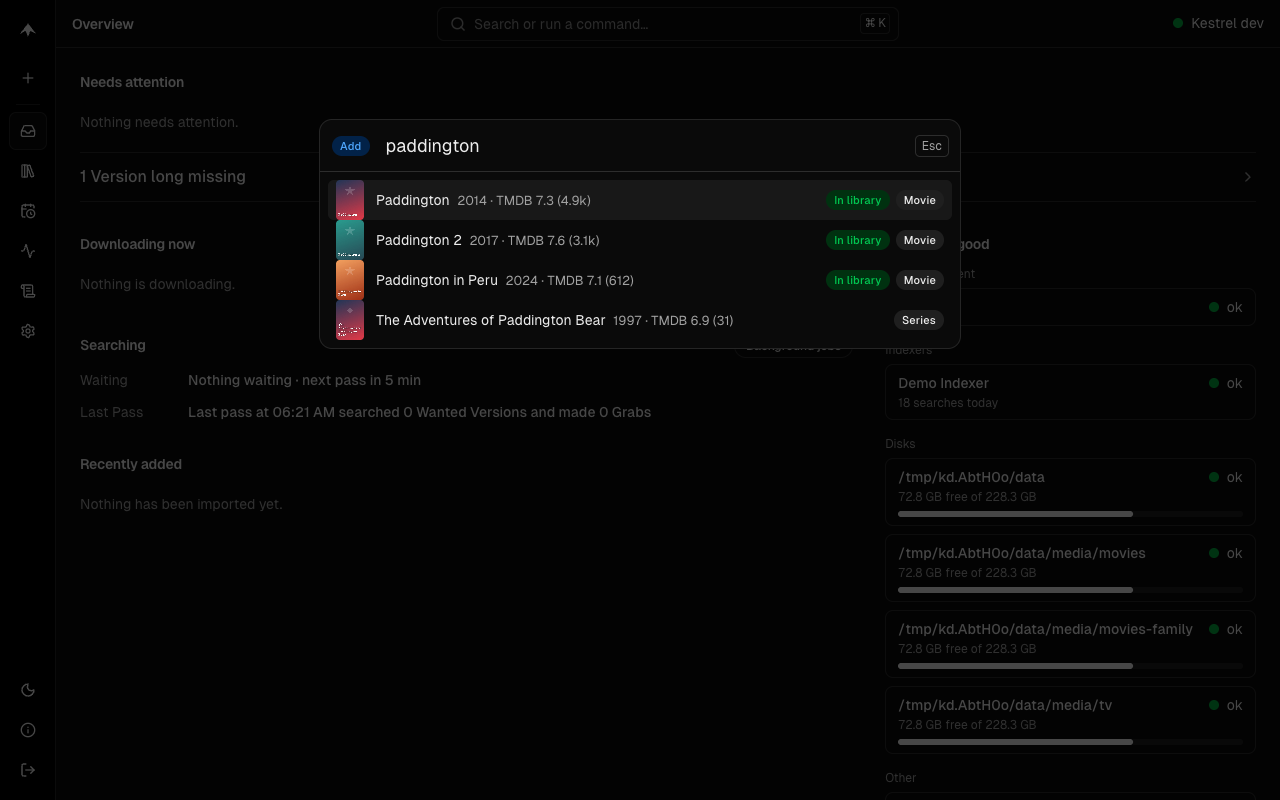
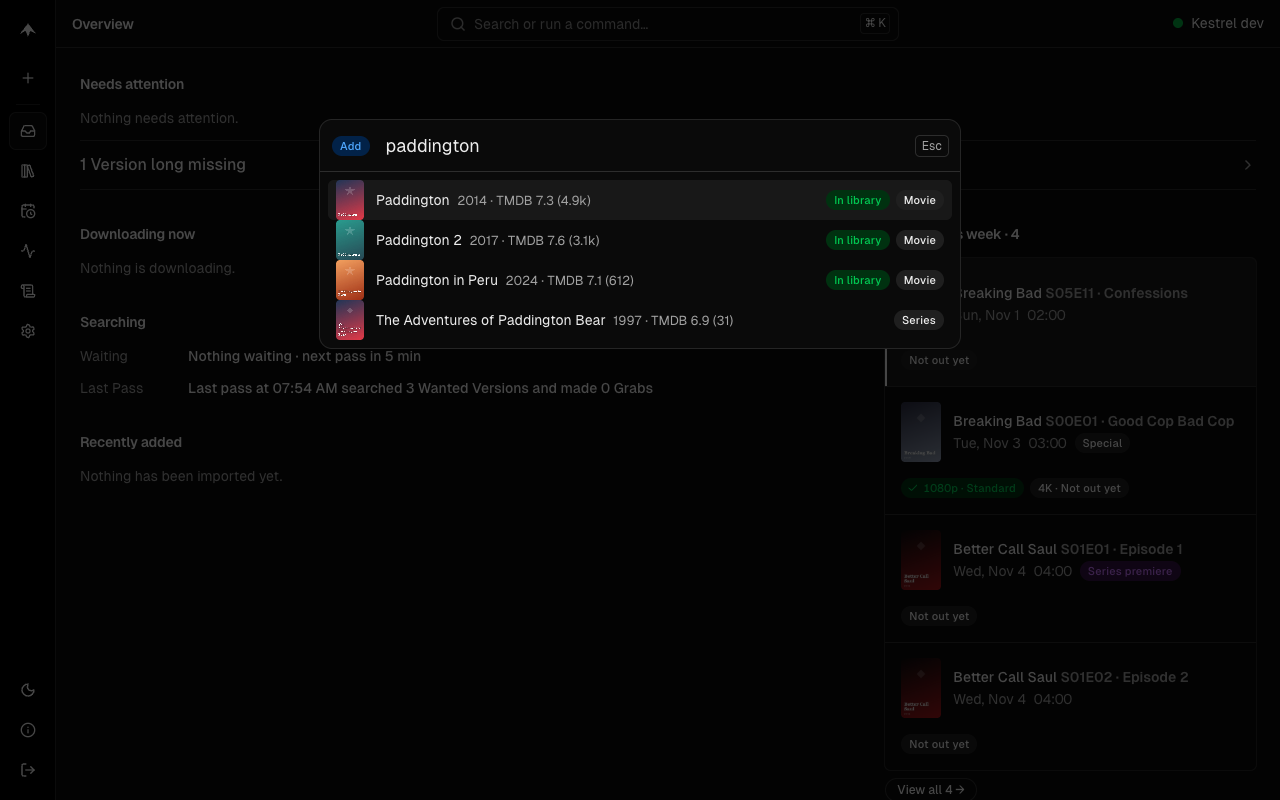
chore(release): 0.9.0

diff --git a/CHANGELOG.md b/CHANGELOG.md
@@ -1,5 +1,41 @@
 # Changelog
 
+## [0.9.0](https://github.com/hyprsh/kestrel/compare/v0.8.1...v0.9.0) (2026-10-31)
+
+> Kestrel now tells you what every action did, shows loading content in its own shape, and works on a phone in Manual search. Updating from TRaSH and changing the Primary Language run in the background with progress in Activity, and a new [documentation site](https://hyprsh.github.io/kestrel/) has guides for getting started, moving from Radarr and Sonarr, and troubleshooting.
+
+### Upgrade Steps
+
+* **[ACTION REQUIRED]** If a script calls `POST /api/v1/trash/update`, change it to expect `202 Accepted` and read the result from the `trash` job in `GET /api/v1/jobs` (see Breaking Changes).
+
+### Breaking Changes
+
+* **trash:** `POST /trash/update` returns `202 Accepted` at once and runs the update as a pass of the `trash` job, instead of answering `200 {changed, commit}`, `422` or `502` when it finishes. The job reports its progress and outcome (`updated`, `up_to_date`, `rejected`, `unreachable`, `rescored`, `failed`) in `GET /jobs`.
+* **settings:** `PATCH /settings` with a new Primary Language returns with the old Language and `language_region.pending_primary_language` set. The new Language applies, together with re-scoring every file, when the background pass runs. If the re-score fails, nothing changes.
+
+### New Features
+
+* **trash:** "Update from TRaSH" and a Primary Language change re-score in the background. Activity → Background jobs shows "Re-scoring: N of M Titles", and a toast reports the outcome on any screen. Settings shows "Switching to German…" until the new Language applies, and no search or Grab ever sees a new Language with old Scores ([#248](https://github.com/hyprsh/kestrel/pull/248)), closes [#244](https://github.com/hyprsh/kestrel/issues/244)
+* **web:** every action gives feedback. Background work such as Search now says it started, with a link to Activity; changes you can't see on screen get a success toast; and failures always show ([#248](https://github.com/hyprsh/kestrel/pull/248)), closes [#245](https://github.com/hyprsh/kestrel/issues/245)
+* **web:** Skeletons in the shape of what's coming replace blank areas and "Loading…" lines, and posters fade in once loaded ([#248](https://github.com/hyprsh/kestrel/pull/248)), closes [#197](https://github.com/hyprsh/kestrel/issues/197)
+* **settings:** a Display section sets household-wide view defaults: season order (oldest or newest first), which seasons open, Manual search's sort and Upcoming's filters. Each can be declared in the Config File's new `display` section on its own ([ADR 0022](https://github.com/hyprsh/kestrel/blob/main/docs/adr/0022-declared-display-settings-may-leave-others-to-the-ui.md)). Specials now come after the other seasons in both orders ([#248](https://github.com/hyprsh/kestrel/pull/248)), closes [#190](https://github.com/hyprsh/kestrel/issues/190)
+* **library:** Manual search works on phones as stacked rows, with a Sort menu in plain words ("Largest first", "Newest first") and the Grab bar above the tab bar. Grabbing shows "Grabbing…", a confirmation that stays with a link to Activity, and a Grabbed mark on the Release ([#248](https://github.com/hyprsh/kestrel/pull/248)), closes [#188](https://github.com/hyprsh/kestrel/issues/188), [#237](https://github.com/hyprsh/kestrel/issues/237)
+* **library:** a Series' header gives every Slot the same row, kept or not, and counts episodes that aren't monitored ("21 of 40 · 19 not monitored"). Monitoring is a button beside Search now that says its whole state, such as "Monitored: future episodes", and Search now is off while a Title isn't monitored ([#248](https://github.com/hyprsh/kestrel/pull/248)), closes [#195](https://github.com/hyprsh/kestrel/issues/195), [#196](https://github.com/hyprsh/kestrel/issues/196)
+* **overview:** a Blocking problem, such as an unreachable download client, shows as a banner on every screen with the action that fixes it. Health moves to the bottom and folds to one line while all is well, and Coming this week, Recently added and Recent requests show posters ([#248](https://github.com/hyprsh/kestrel/pull/248)), closes [#191](https://github.com/hyprsh/kestrel/issues/191), [#201](https://github.com/hyprsh/kestrel/issues/201)
+* **silo:** Silo's request page names Kestrel's step "Finding it", with "Searching" and "Downloading", and shows "Taking longer than usual" when an Import is stalled or a download is paused or hasn't moved for an hour ([#248](https://github.com/hyprsh/kestrel/pull/248)), closes [#89](https://github.com/hyprsh/kestrel/issues/89)
+* **docs:** a [documentation site](https://hyprsh.github.io/kestrel/) with guides for getting started, concepts, moving from Radarr and Sonarr, configuration, troubleshooting and the API, plus the glossary, decisions and changelog. About links to it ([#248](https://github.com/hyprsh/kestrel/pull/248)), closes [#158](https://github.com/hyprsh/kestrel/issues/158), [#159](https://github.com/hyprsh/kestrel/issues/159)
+
+### Bug Fixes
+
+* **metadata:** cached TMDB posters are fetched again after 30 days or when a Title's poster changes, and none is kept past six months, as TMDB's terms require. Removing a Title removes its poster ([#248](https://github.com/hyprsh/kestrel/pull/248)), closes [#63](https://github.com/hyprsh/kestrel/issues/63)
+* **about:** the About page shows the TMDB logo beside its attribution, and the third-party notices list it ([#248](https://github.com/hyprsh/kestrel/pull/248)), closes [#62](https://github.com/hyprsh/kestrel/issues/62)
+* **overview:** Long Missing rows name the Profile ("HD") instead of its key, and a row no longer reads "4K · 4K" ([#248](https://github.com/hyprsh/kestrel/pull/248)), closes [#160](https://github.com/hyprsh/kestrel/issues/160)
+* **library:** the Library's Slot dots no longer look like spinners, and a Slot with no Version is a faint dot instead of a ring as loud as Wanted ([#248](https://github.com/hyprsh/kestrel/pull/248)), closes [#198](https://github.com/hyprsh/kestrel/issues/198)
+
+### Other Changes
+
+* **repo:** Kestrel is licensed GPL-3.0-only, now with a `LICENSE` file, and `SECURITY.md` says how to report a vulnerability privately ([#248](https://github.com/hyprsh/kestrel/pull/248)), closes [#246](https://github.com/hyprsh/kestrel/issues/246)
+
 ## [0.8.1](https://github.com/hyprsh/kestrel/compare/v0.8.0...v0.8.1) (2026-10-29)
 
 > Watch-ahead for Silo now counts Silo plays. In 0.8.0 every Silo catalog lookup was refused, so a Silo play never advanced a Request.
